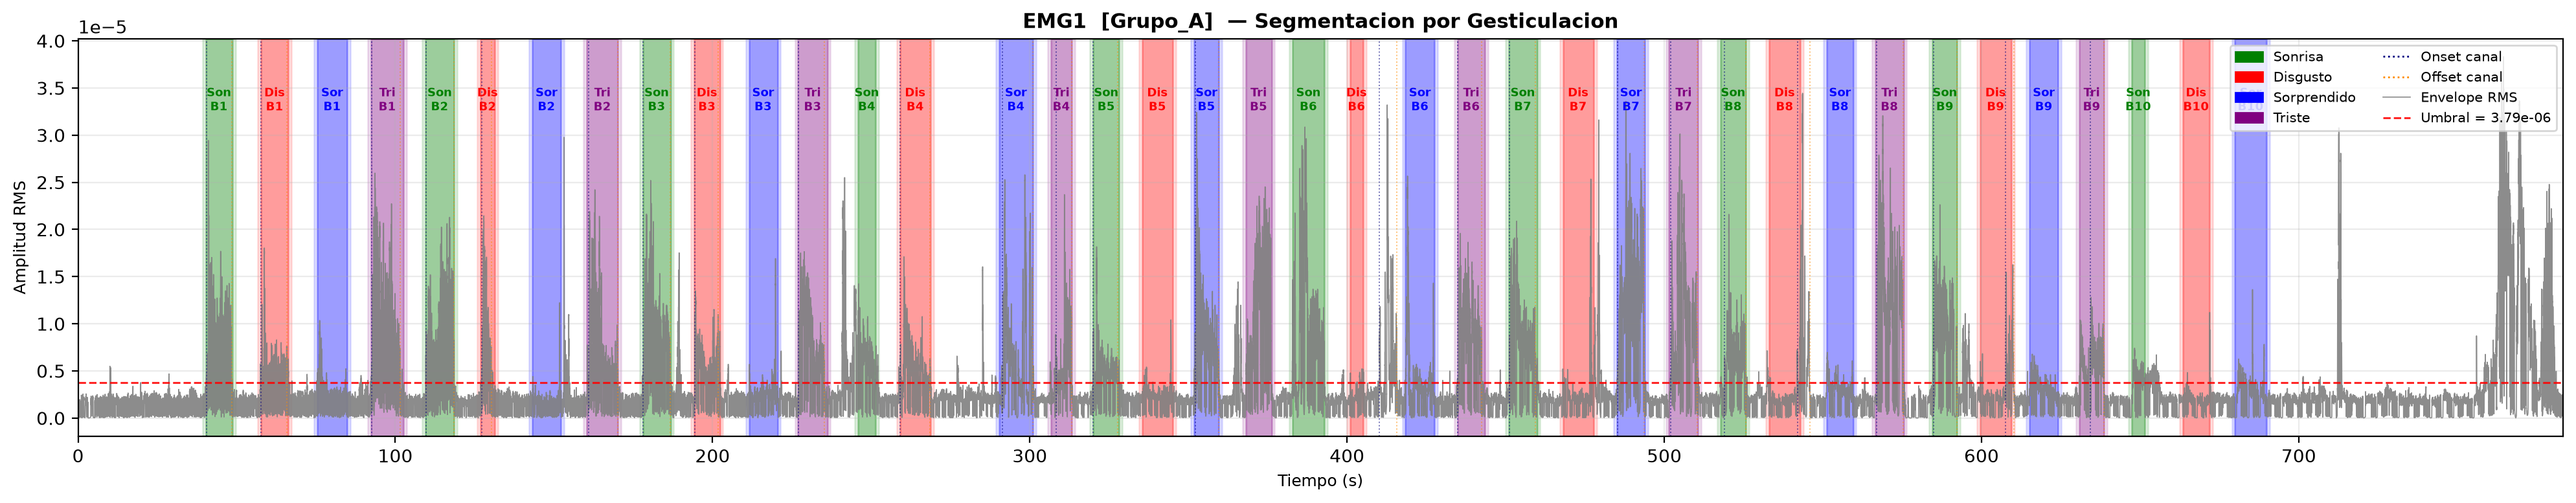
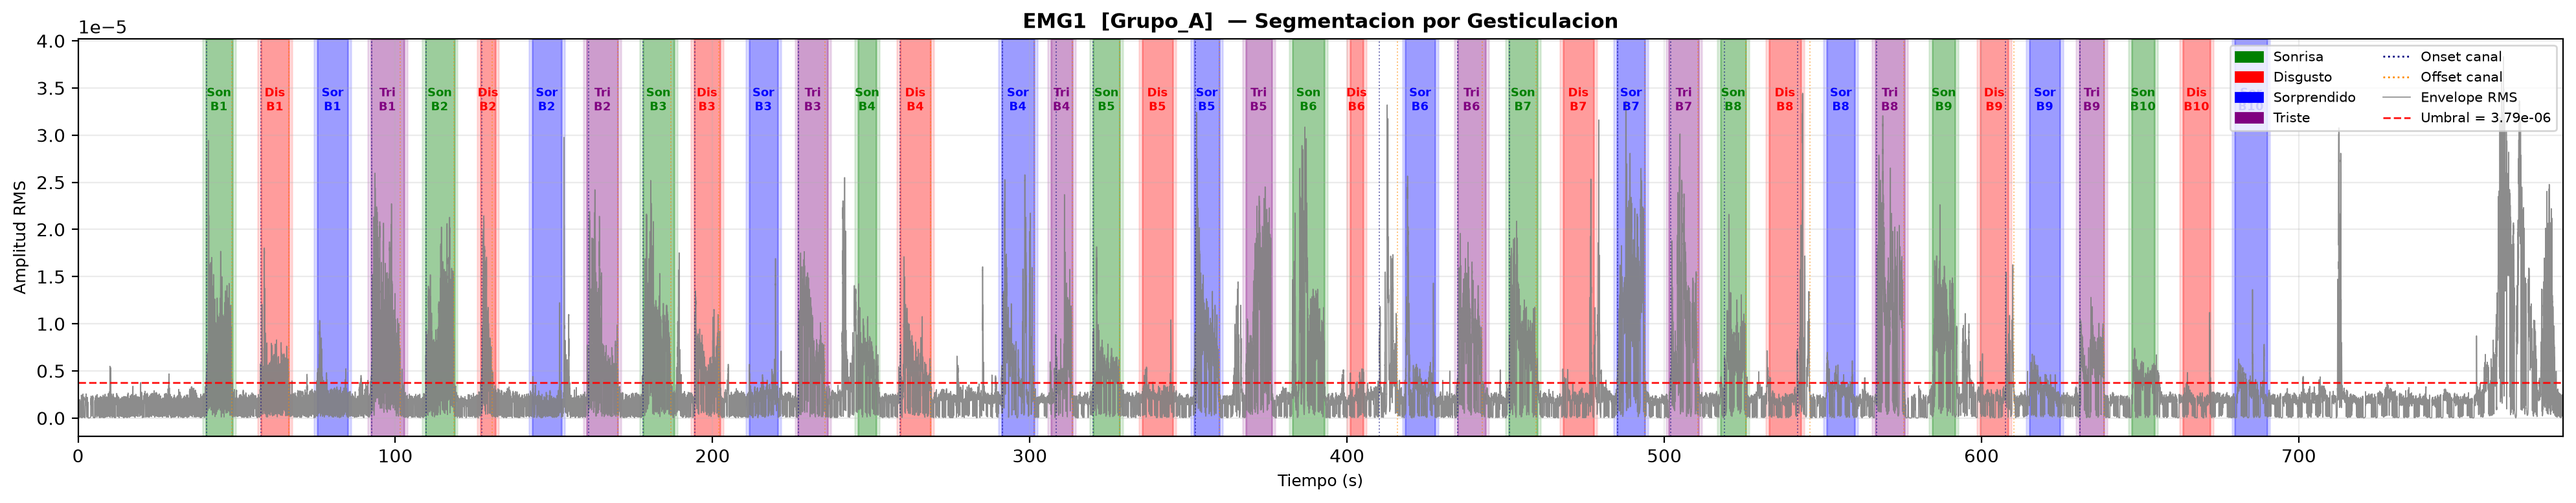
Optimizar gitignore y limpiar archivos de datos

diff --git a/main/run_segmentation.py b/main/run_segmentation.py
@@ -1,18 +1,24 @@
 """
 Punto de entrada: Se define la configuracion de la corrida y se invoca 
 la funcion principal de slicing de epocas
+
+python -m main.run_segmentation
 """
 
-from emg_segmentation import epoch_slicing
-from main.emg_segmentation import config
+from pathlib import Path
+from main.emg_segmentation import epoch_slicing
+from main.emg_segmentation import Config
+
+# Raiz del proyecto
+root = Path(__file__).resolve().parent.parent
 
 if __name__ == "__main__":
-    cfg = config(
-        csv_path="../Test1/Data/FREEEMG_Processed_Signals.csv",
-        output_path="../Test1",
+    cfg = Config(
+        csv_path = str(root / "Test1/Data/FREEEMG_Processed_Signals.csv"),
+        output_path = str(root / "Test1"),
 
         # Protocolo
-        num_blocks=3,
+        num_blocks=5,
 
         # Topologia muscular
         channel_groups={
@@ -29,7 +35,7 @@ if __name__ == "__main__":
         k_baseline=10.0,
 
         # Baseline movil robusto (mediana + MAD), reemplaza el baseline fijo
-        use_rolling_baseline=True,
+        use_rolling_baseline=False,
         rolling_baseline_window_sec=20.0,
         baseline_window_sec=20.0,     # usado solo si use_rolling_baseline=False
 
@@ -41,13 +47,13 @@ if __name__ == "__main__":
         },
 
         # Refinamiento con baseline local pre-countdown (5s antes del countdown)
-        use_local_baseline_refinement=True,
+        use_local_baseline_refinement=False,
         countdown_sec=3.0,
         local_baseline_sec=5.0,
         local_refine_search_margin_sec=2.0,
 
         # Filtros de forma: energia y factor de cresta
-        use_shape_filters=True,
+        use_shape_filters=False,
         energy_ratio_min=3.0,
         crest_factor_min=1.05,
         crest_factor_max=8.0,
@@ -70,6 +76,6 @@ if __name__ == "__main__":
 
         # CSV completo etiquetado (Reposo / Countdown_Emocion / <Emocion>)
         export_labeled_full_csv=True,
-        labeled_csv_name="processed_labeled.csv",
+        labeled_csv_name="Data/processed_labeled.csv",
     )
     epoch_slicing(cfg)

diff --git a/main/emg_segmentation/config.py b/main/emg_segmentation/config.py
@@ -40,13 +40,13 @@ class Config:
     k_offset_ratio: float = 0.6
     k_offset_ratio_per_group: dict[str, float] = field(default_factory=dict)
 
-    # --- Refinamiento con baseline local pre-countdown ---
+    # Refinamiento con baseline local pre-countdown 
     use_local_baseline_refinement: bool = True
     countdown_sec: float = 3.0          # duracion del countdown antes del gesto
     local_baseline_sec: float = 5.0     # ventana de reposo previa al countdown a usar
     local_refine_search_margin_sec: float = 2.0
 
-    # --- Filtros de forma (energia y factor de cresta) ---
+    # Filtros de forma (energia y factor de cresta) 
     use_shape_filters: bool = True
     energy_ratio_min: float = 3.0       # energia_evento / energia_ruido_baseline minima
     crest_factor_min: float = 1.05      # rechaza mesetas casi planas (probable ruido)
@@ -81,6 +81,6 @@ class Config:
 
     # Etiquetado del CSV completo (processed + label) 
     export_labeled_full_csv: bool = True
-    labeled_csv_name: str = "processed_labeled.csv"
+    labeled_csv_name: str = "Data/processed_labeled.csv"
     reposo_label: str = "Reposo"
     countdown_label_prefix: str = "Countdown_"
